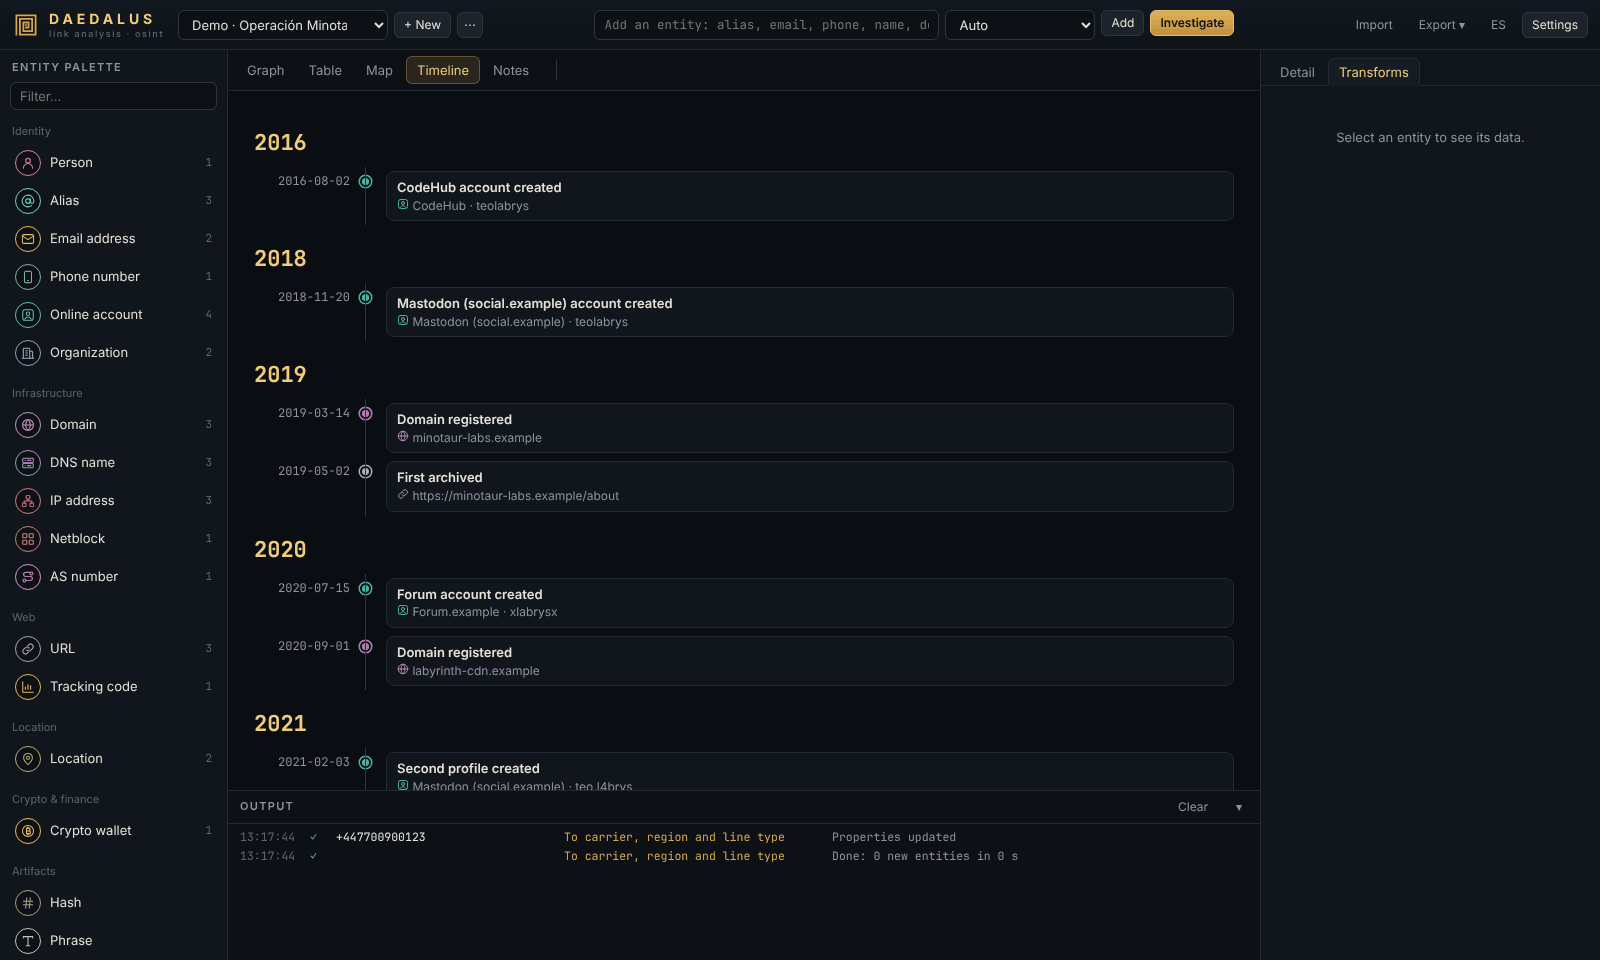
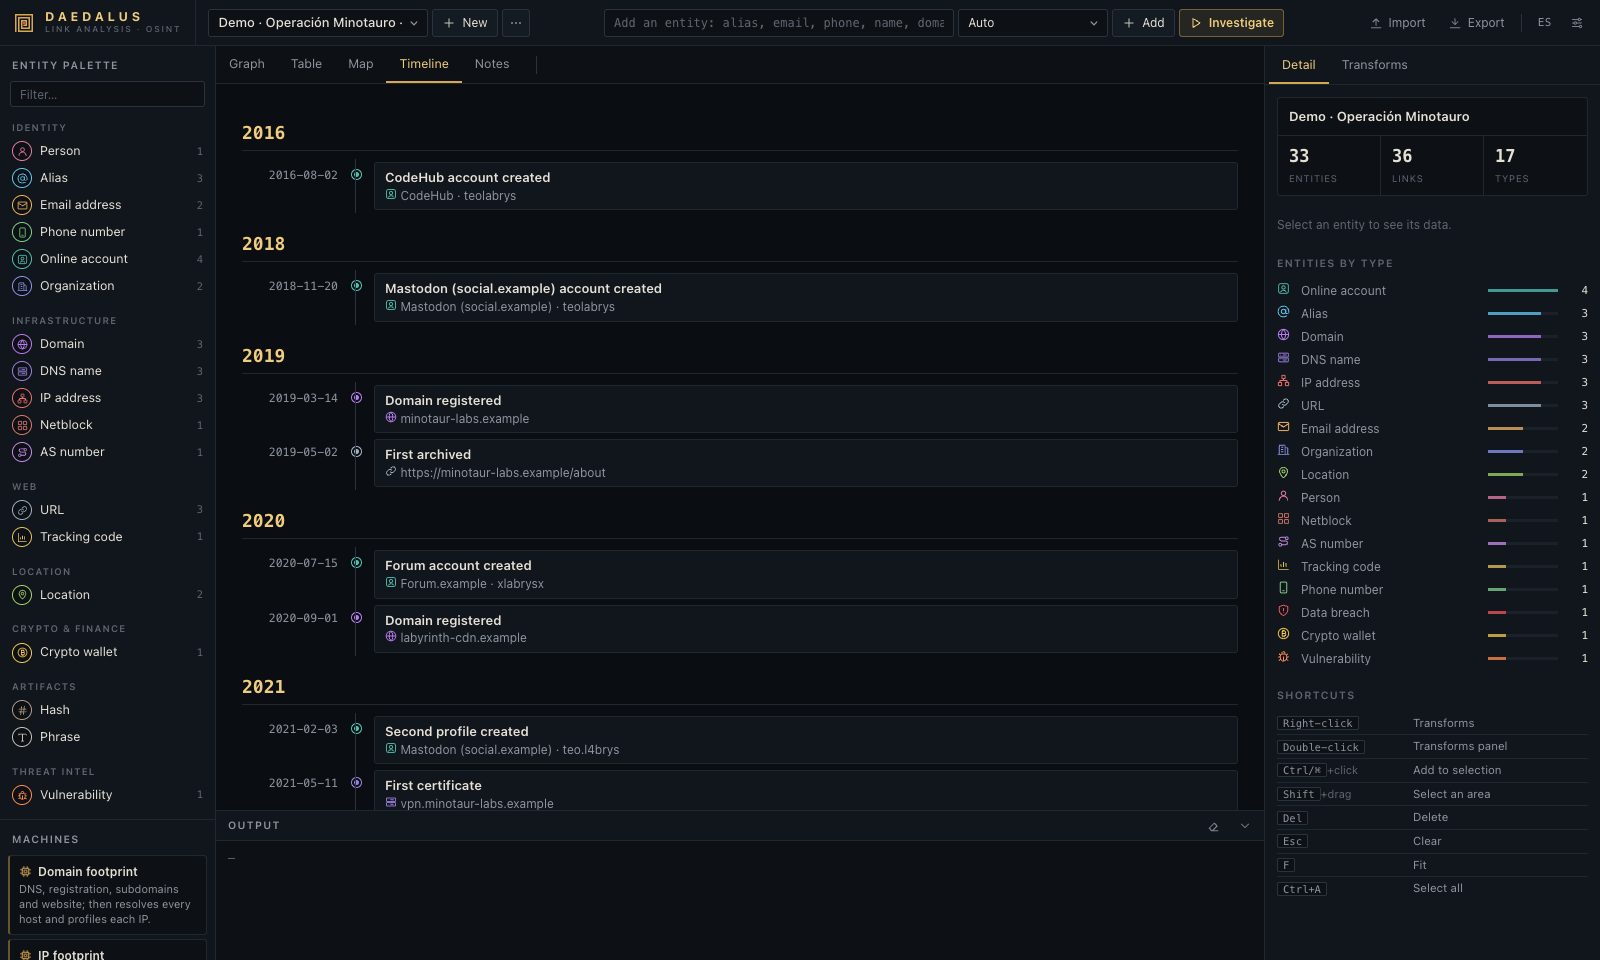
new images

diff --git a/daedalus/web/js/main.js b/daedalus/web/js/main.js
@@ -401,12 +401,55 @@ function wireDrop() {
   });
 }
 
+function setConsoleCollapsed(on) {
+  $("#console").classList.toggle("collapsed", on);
+  $("#toggleConsole").innerHTML = uiIcon(on ? "up" : "down");
+}
+
 function wireConsole() {
-  $("#toggleConsole").addEventListener("click", () => {
-    const c = $("#console");
-    c.classList.toggle("collapsed");
-    $("#toggleConsole").innerHTML = uiIcon(c.classList.contains("collapsed") ? "up" : "down");
-    setTimeout(() => G.cy.resize(), 50);
+  const c = $("#console");
+  const MIN = 60;
+  const maxHeight = () => Math.max(MIN, c.parentElement.clientHeight - 160);
+  const saved = store.get("consoleHeight", null);
+  if (saved) c.style.height = `${Math.min(saved, maxHeight())}px`;
+  $("#toggleConsole").addEventListener("click", () => setConsoleCollapsed(!c.classList.contains("collapsed")));
+
+  // drag the top edge to resize; dragging below the minimum collapses it
+  const grip = $("#consoleResize");
+  grip.addEventListener("pointerdown", (ev) => {
+    if (ev.button !== 0) return;
+    ev.preventDefault();
+    grip.setPointerCapture(ev.pointerId);
+    const startY = ev.clientY;
+    const startH = c.getBoundingClientRect().height;
+    document.body.classList.add("resizing-v");
+    const move = (e) => {
+      const h = startH + (startY - e.clientY);
+      if (h < MIN / 2) {
+        setConsoleCollapsed(true);
+        return;
+      }
+      setConsoleCollapsed(false);
+      c.style.height = `${Math.min(Math.max(h, MIN), maxHeight())}px`;
+    };
+    const up = () => {
+      grip.removeEventListener("pointermove", move);
+      grip.removeEventListener("pointerup", up);
+      grip.removeEventListener("pointercancel", up);
+      document.body.classList.remove("resizing-v");
+      if (!c.classList.contains("collapsed")) store.set("consoleHeight", Math.round(c.getBoundingClientRect().height));
+    };
+    grip.addEventListener("pointermove", move);
+    grip.addEventListener("pointerup", up);
+    grip.addEventListener("pointercancel", up);
+  });
+  grip.addEventListener("dblclick", () => {
+    c.style.height = "";
+    store.set("consoleHeight", null);
+    setConsoleCollapsed(false);
+  });
+  window.addEventListener("resize", () => {
+    if (c.style.height && parseFloat(c.style.height) > maxHeight()) c.style.height = `${maxHeight()}px`;
   });
   $("#clearLog").addEventListener("click", () => { $("#log").innerHTML = ""; });
   $("#cancelJobs").addEventListener("click", () => cancelAll());

diff --git a/daedalus/web/css/daedalus.css b/daedalus/web/css/daedalus.css
@@ -309,8 +309,13 @@ kbd { font-family: var(--mono); font-size: 10.5px; padding: 0 5px; border: 1px s
 .section-label { margin-top: 4px; }
 
 /* --------------------------------------------------------------- console */
-.console { border-top: 1px solid var(--line); background: var(--bg2); display: flex; flex-direction: column; height: 150px; min-height: 30px; }
-.console.collapsed { height: 31px; }
+.console { position: relative; border-top: 1px solid var(--line); background: var(--bg2); display: flex; flex-direction: column; height: 150px; min-height: 30px; flex: none; }
+.console.collapsed { height: 31px !important; }
+.console-resize { position: absolute; left: 0; right: 0; top: -4px; height: 8px; cursor: row-resize; z-index: 6; touch-action: none; }
+.console-resize::after { content: ""; position: absolute; left: 0; right: 0; top: 3px; height: 2px; background: transparent; transition: background .12s; }
+.console-resize:hover::after, .resizing-v .console-resize::after { background: var(--gold-line); }
+body.resizing-v { cursor: row-resize; user-select: none; }
+body.resizing-v #cy { pointer-events: none; }
 .console header { display: flex; align-items: center; gap: 6px; padding: 0 6px 0 12px; height: 30px; flex: none; border-bottom: 1px solid var(--line); background: var(--panel); }
 .console.collapsed header { border-bottom: 0; }
 .console header .title { color: var(--muted); }

diff --git a/daedalus/web/index.html b/daedalus/web/index.html
@@ -156,6 +156,7 @@
     </div>
 
     <section id="console" class="console">
+      <div id="consoleResize" class="console-resize"></div>
       <header>
         <span class="title" data-i18n="output">Output</span>
         <div class="progress" id="jobProgress"></div>
